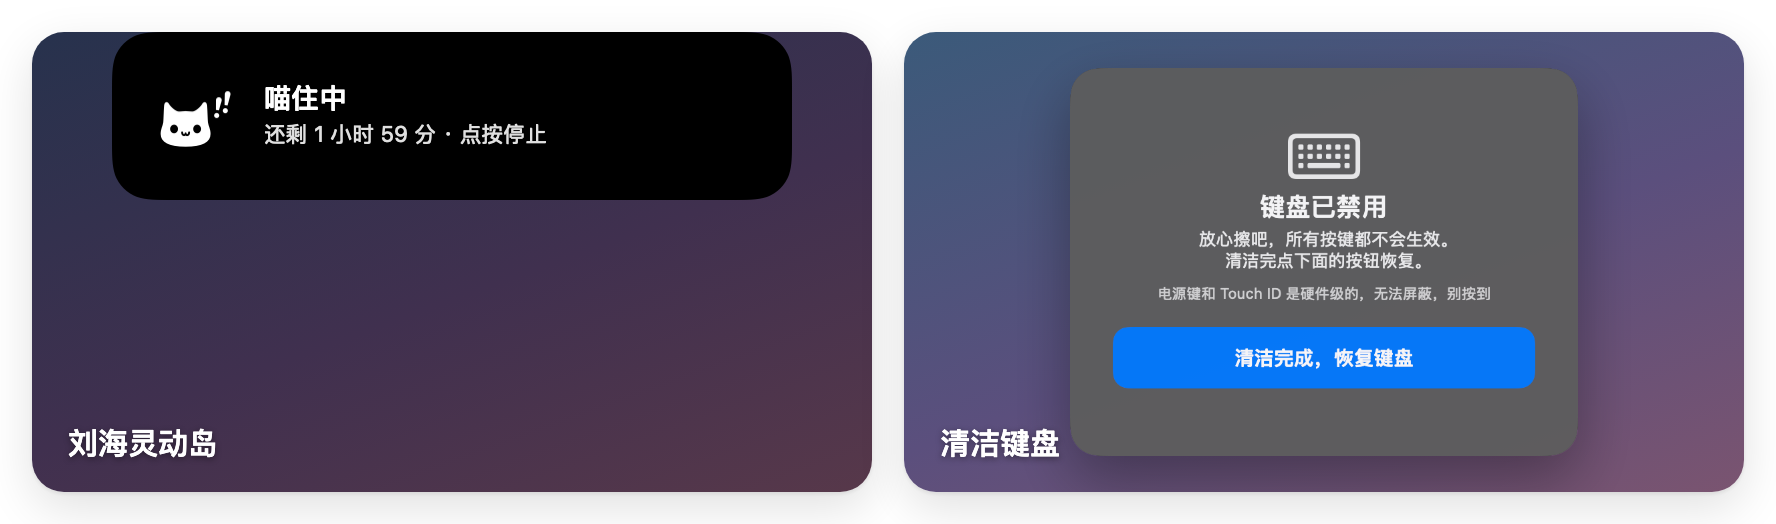
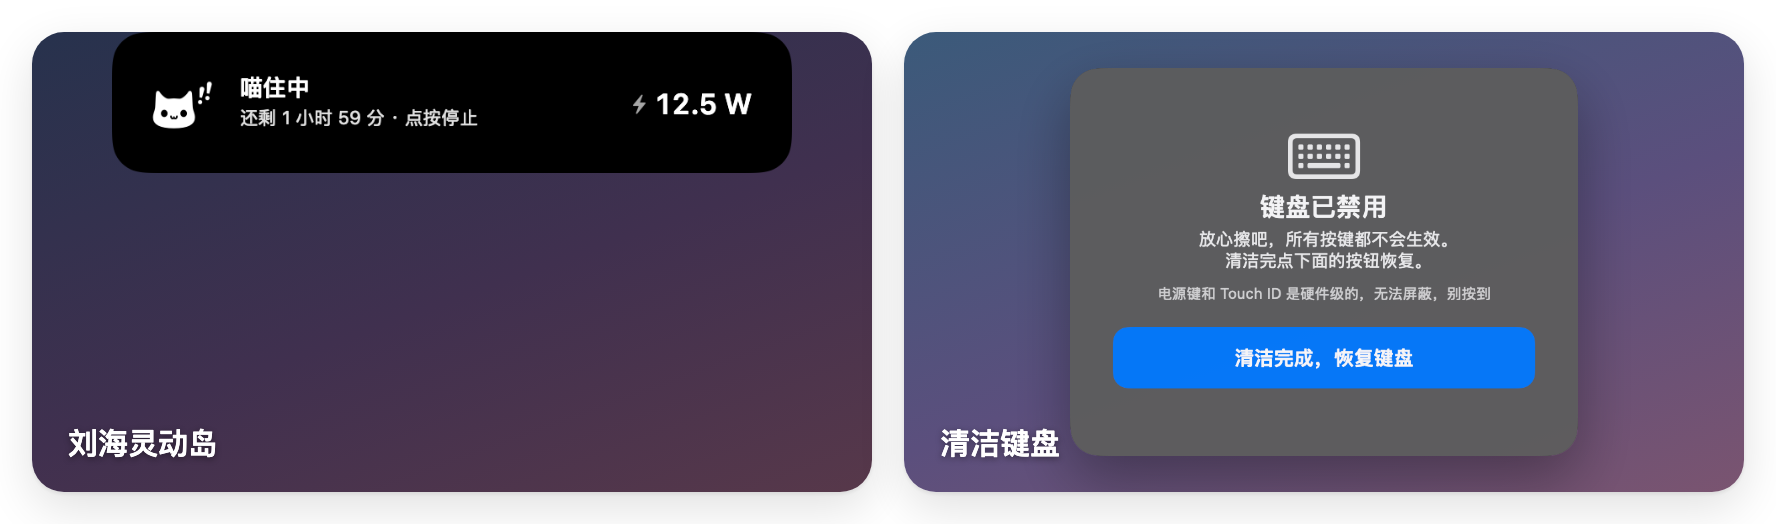
Show live power on the notch island
The expanded capsule carries a right-aligned wattage with a bolt, read
straight from the SMC on each one-second refresh while it is open, in
monospaced digits so the width holds still as the value changes. The
capsule is 64pt wider so the longest status line (hours left, lid mode,
tap hint) still fits beside a three-digit reading.

Changed region(s): [[0.0619, 0.3053, 0.4645, 0.3969], [0.0619, 0.1527, 0.3097, 0.2748], [0.3407, 0.1527, 0.4336, 0.2443]]

diff --git a/Sources/SleepCat/NotchIsland.swift b/Sources/SleepCat/NotchIsland.swift
@@ -12,6 +12,8 @@ final class NotchIsland: NSObject {
         let active: Bool
         let title: String
         let detail: String
+        /// 实时整机功耗，读不到就不显示
+        var watts: Double? = nil
     }
 
     var statusProvider: (() -> Status)?
@@ -49,7 +51,7 @@ final class NotchIsland: NSObject {
     /// 展开态：刘海下方的胶囊
     private var expandedFrame: NSRect {
         guard let s = screen else { return .zero }
-        let size = NSSize(width: 340, height: 84)
+        let size = NSSize(width: 404, height: 84)   // 右边留出功耗读数的位置
         return NSRect(x: s.frame.midX - size.width / 2, y: s.frame.maxY - size.height,
                       width: size.width, height: size.height)
     }
@@ -162,10 +164,10 @@ final class NotchIsland: NSObject {
 extension NotchIsland {
     /// 调试用：把展开态的岛离屏渲染成 PNG（2x）
     static func renderPreview(toDirectory dir: String) {
-        let size = NSSize(width: 340, height: 84)
+        let size = NSSize(width: 404, height: 84)
         let samples: [(String, Status)] = [
-            ("island-active", Status(active: true, title: "喵住中", detail: "还剩 1 小时 59 分 · 点按停止")),
-            ("island-idle", Status(active: false, title: "打盹中", detail: "Mac 可正常休眠 · 点按喵住")),
+            ("island-active", Status(active: true, title: "喵住中", detail: "还剩 1 小时 59 分 · 点按停止", watts: 12.5)),
+            ("island-idle", Status(active: false, title: "打盹中", detail: "Mac 可正常休眠 · 点按喵住", watts: 4.3)),
         ]
         for (name, status) in samples {
             let v = IslandView(frame: NSRect(origin: .zero, size: size))
@@ -194,6 +196,8 @@ private final class IslandView: NSView {
     private let iconView = NSImageView()
     private let titleLabel = NSTextField(labelWithString: "")
     private let detailLabel = NSTextField(labelWithString: "")
+    private let powerIcon = NSImageView()
+    private let powerLabel = NSTextField(labelWithString: "")
 
     override init(frame: NSRect) {
         super.init(frame: frame)
@@ -217,7 +221,19 @@ private final class IslandView: NSView {
 
         detailLabel.font = .systemFont(ofSize: 11)
         detailLabel.textColor = NSColor.white.withAlphaComponent(0.65)
+        detailLabel.lineBreakMode = .byTruncatingTail
         capsule.addSubview(detailLabel)
+
+        // 右侧的实时功耗：等宽数字，跳动时宽度不变，不会左右抖
+        powerIcon.image = NSImage(systemSymbolName: "bolt.fill", accessibilityDescription: "功耗")
+        powerIcon.symbolConfiguration = .init(pointSize: 11, weight: .semibold)
+        powerIcon.contentTintColor = NSColor.white.withAlphaComponent(0.65)
+        capsule.addSubview(powerIcon)
+
+        powerLabel.font = .monospacedDigitSystemFont(ofSize: 17, weight: .semibold)
+        powerLabel.textColor = .white
+        powerLabel.alignment = .right
+        capsule.addSubview(powerLabel)
     }
 
     required init?(coder: NSCoder) { fatalError("not used") }
@@ -226,6 +242,9 @@ private final class IslandView: NSView {
         iconView.image = status.active ? CatIcon.awake : CatIcon.asleep
         titleLabel.stringValue = status.title
         detailLabel.stringValue = status.detail
+        powerLabel.stringValue = status.watts.map { PowerMeter.wattsText($0) } ?? ""
+        powerIcon.isHidden = status.watts == nil
+        needsLayout = true
     }
 
     override func layout() {
@@ -234,9 +253,19 @@ private final class IslandView: NSView {
         let iconSize = NSSize(width: 36, height: 30)
         iconView.frame = NSRect(x: 24, y: bounds.midY - iconSize.height / 2 - 2,
                                 width: iconSize.width, height: iconSize.height)
+        // 右侧功耗：读数右对齐，闪电贴在读数左边
+        let powerWidth: CGFloat = powerLabel.stringValue.isEmpty ? 0 : 76
+        powerLabel.frame = NSRect(x: bounds.width - 22 - powerWidth, y: bounds.midY - 13,
+                                  width: powerWidth, height: 22)
+        let boltSize: CGFloat = 12
+        let textWidth = powerLabel.attributedStringValue.size().width
+        powerIcon.frame = NSRect(x: powerLabel.frame.maxX - textWidth - boltSize - 4, y: bounds.midY - 8,
+                                 width: boltSize, height: boltSize + 2)
+
         let textX = iconView.frame.maxX + 14
-        titleLabel.frame = NSRect(x: textX, y: bounds.midY, width: bounds.width - textX - 16, height: 18)
-        detailLabel.frame = NSRect(x: textX, y: bounds.midY - 17, width: bounds.width - textX - 16, height: 15)
+        let textRight = powerWidth > 0 ? powerIcon.frame.minX - 10 : bounds.width - 16
+        titleLabel.frame = NSRect(x: textX, y: bounds.midY, width: textRight - textX, height: 18)
+        detailLabel.frame = NSRect(x: textX, y: bounds.midY - 17, width: textRight - textX, height: 15)
     }
 
     override func mouseDown(with event: NSEvent) {

diff --git a/Sources/SleepCat/main.swift b/Sources/SleepCat/main.swift
@@ -150,12 +150,14 @@ final class SleepCatApp: NSObject, NSApplicationDelegate, NSMenuDelegate {
         }
         island.statusProvider = { [weak self] in
             guard let self else { return .init(active: false, title: "SleepCat", detail: "") }
+            // 展开期间每秒刷新一次，这里现读 SMC（一次不到 1 毫秒），是真正的实时值
+            let watts = PowerMeter.read()
             if self.blocker.isActive {
                 var detail = self.deadline.map { "还剩 \(Self.format($0.timeIntervalSinceNow))" } ?? "无限期"
                 if self.lidBlocker.isActive { detail += " · 含合盖" }
-                return .init(active: true, title: "喵住中", detail: detail + " · 点按停止")
+                return .init(active: true, title: "喵住中", detail: detail + " · 点按停止", watts: watts)
             }
-            return .init(active: false, title: "打盹中", detail: "Mac 可正常休眠 · 点按喵住")
+            return .init(active: false, title: "打盹中", detail: "Mac 可正常休眠 · 点按喵住", watts: watts)
         }
         island.onToggle = { [weak self] in self?.toggle() }
         if duoEnabled {

diff --git a/README.md b/README.md
@@ -47,7 +47,7 @@ curl -fsSL https://raw.githubusercontent.com/SuInk/sleepcat/main/install.sh | ba
   - 🔒 **合盖也不休眠**：用 `pmset disablesleep` 挡住合盖强制休眠
   - 同时保持屏幕常亮（可选，默认只防系统休眠）
   - 音效：喵（代码合成）/ 呼噜（默认关闭）
-- 🏝 **Duo 岛**：把 MacBook 刘海当灵动岛用（iPhone Duo 风格）——平时隐身，鼠标悬停到刘海或喵住状态变化时流畅展开成黑色胶囊，显示猫猫状态和剩余时间，点按直接切换；菜单可关
+- 🏝 **Duo 岛**：把 MacBook 刘海当灵动岛用（iPhone Duo 风格）——平时隐身，鼠标悬停到刘海或喵住状态变化时流畅展开成黑色胶囊，显示猫猫状态、剩余时间和**实时整机功耗**（展开期间每秒刷新），点按直接切换；菜单可关
 - 🌫 **合盖渐进模糊**：读取 MacBook 内置的铰链角度传感器（HID Sensor 0x20/0x8A），合盖过程中屏幕实时渐进模糊——**铰链边始终清晰，越往远边越糊并渐隐到黑**，模糊半径按高度以 g^1.35 增长、最大 90pt，整体强度按 progress^1.45 增长（取自 iPhone Duo 折叠转场的观感曲线）。100° 起雾、40° 拉满，重新打开反向消散。全部用背景滤镜实时合成，**不读屏幕内容、不需要任何权限**。角度用临界阻尼弹簧平滑，盖子一动按 60 帧跟手，停稳后降到 10 帧省电。盖子停在半路、合到底都保持；只有屏幕正被远程控制 / 屏幕共享 / 录屏持续监看时才自动让开。只画在内建屏幕上。调试：`SleepCat --lid-angle` 打印实时角度，`SleepCat --blur-sweep` 模拟一次合盖
 <p align="center">
   <img src="docs/images/features.png" width="888" alt="左：刘海灵动岛显示喵住中、还剩 1 小时 59 分；右：清洁键盘时的「键盘已禁用」面板">
